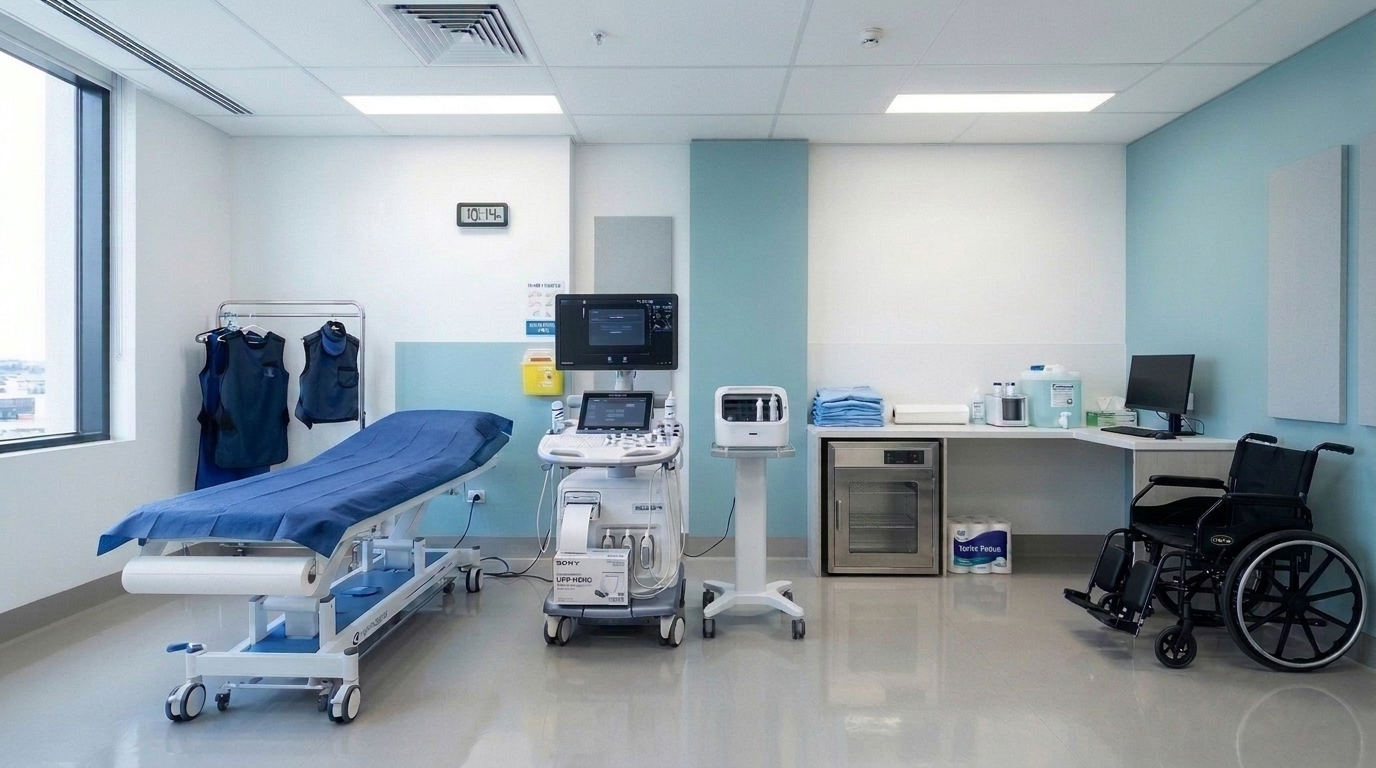
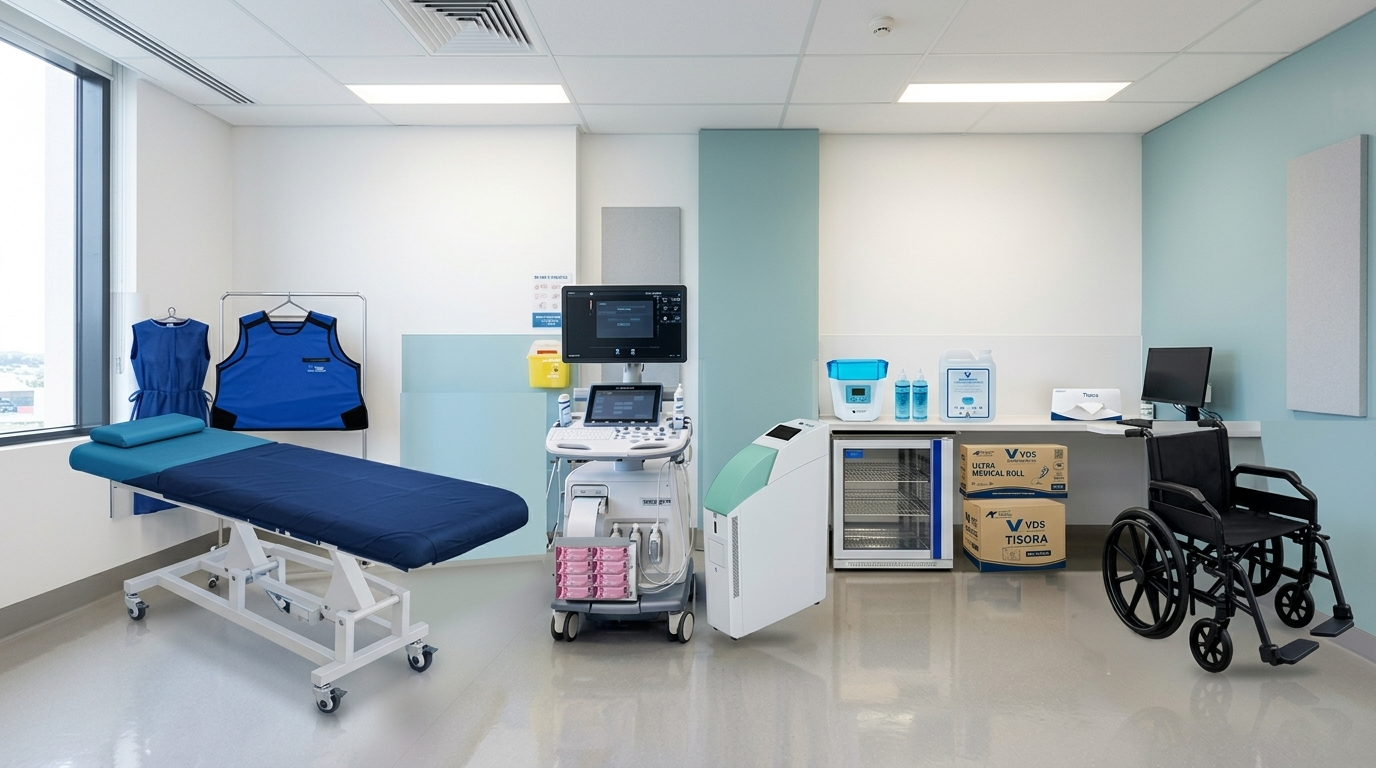
chnage the acc number and bsb

diff --git a/frontend/src/components/InteractiveRoom/InteractiveRoom.jsx b/frontend/src/components/InteractiveRoom/InteractiveRoom.jsx
@@ -23,8 +23,8 @@ const ROOM_HOTSPOTS = [
     artg: 'ARTG 203847',
     tagline: 'Versatile electric 2-motor positioning for clinics & ultrasound suites',
     image: '/images/exam_couch.webp',
-    x: 26,
-    y: 78,
+    x: 20.0,
+    y: 76.5,
     tooltipPlacement: 'top'
   },
   {
@@ -38,8 +38,8 @@ const ROOM_HOTSPOTS = [
     artg: 'ARTG 102934',
     tagline: '240 × 70 cm · Non-woven fluid-resistant barrier for examination couches',
     image: '/images/exam_bed_sheet_10.webp',
-    x: 23,
-    y: 64,
+    x: 27.5,
+    y: 62.5,
     tooltipPlacement: 'top'
   },
   {
@@ -51,10 +51,10 @@ const ROOM_HOTSPOTS = [
     sku: 'EX-ROLL-01',
     price: '$58.20 / Carton',
     artg: null,
-    tagline: 'Continuous couch roll dispenser protection with easy-tear perforations',
+    tagline: 'Carton of 20 continuous couch roll dispensers with easy-tear perforations',
     image: '/images/ultra_medical_roll.webp',
-    x: 66.8,
-    y: 55.3,
+    x: 72.5,
+    y: 61.2,
     tooltipPlacement: 'top'
   },
   {
@@ -68,8 +68,8 @@ const ROOM_HOTSPOTS = [
     artg: 'ARTG 401823',
     tagline: '0.50mm Pb radiation protection for imaging staff & radiologists',
     image: '/images/x_ray_protective_apron.webp',
-    x: 20.5,
-    y: 48,
+    x: 21.0,
+    y: 48.5,
     tooltipPlacement: 'top'
   },
   {
@@ -81,10 +81,10 @@ const ROOM_HOTSPOTS = [
     sku: 'EX-GOWN-REG',
     price: '$76.00 / Box of 100',
     artg: 'ARTG 394857',
-    tagline: 'Single-use breathable non-woven patient gowns on examination table',
+    tagline: 'Single-use breathable non-woven patient gowns on clinical hanger rack',
     image: '/images/patient_examination_gown.webp',
-    x: 61.2,
-    y: 53.5,
+    x: 12.5,
+    y: 48.5,
     tooltipPlacement: 'top'
   },
   {
@@ -98,8 +98,8 @@ const ROOM_HOTSPOTS = [
     artg: 'ARTG 530981',
     tagline: 'VDS is direct ARTG sponsor · Acoustically correct clear transmission formula',
     image: '/images/ultrasound_gel_250ML.webp',
-    x: 40.3,
-    y: 55.3,
+    x: 66.0,
+    y: 51.5,
     tooltipPlacement: 'top'
   },
   {
@@ -113,8 +113,8 @@ const ROOM_HOTSPOTS = [
     artg: 'ARTG 530981',
     tagline: 'Bulk supply cubitainer with free 250ml dispensing bottle included',
     image: '/images/ultrasound_gel_5L.webp',
-    x: 77.0,
-    y: 53.0,
+    x: 70.0,
+    y: 50.5,
     tooltipPlacement: 'top'
   },
   {
@@ -128,8 +128,8 @@ const ROOM_HOTSPOTS = [
     artg: 'ARTG 495823',
     tagline: 'Rapid microprocessor-controlled heating for optimal patient comfort',
     image: '/images/thermasonic_gel_warmer.webp',
-    x: 72.7,
-    y: 53.5,
+    x: 62.2,
+    y: 50.5,
     tooltipPlacement: 'top'
   },
   {
@@ -143,8 +143,8 @@ const ROOM_HOTSPOTS = [
     artg: 'ARTG 412890',
     tagline: 'Stainless steel heated cabinet for blankets, fluids, and clinical linens',
     image: '/images/medical_warming_cabinet.webp',
-    x: 63.5,
-    y: 68.0,
+    x: 64.7,
+    y: 65.5,
     tooltipPlacement: 'top'
   },
   {
@@ -158,8 +158,8 @@ const ROOM_HOTSPOTS = [
     artg: 'ARTG 582910',
     tagline: 'High-level disinfection in under 60 seconds with no harmful chemicals',
     image: '/images/ultrasound_probe_disinfector.webp',
-    x: 54.7,
-    y: 54.5,
+    x: 55.6,
+    y: 67.5,
     tooltipPlacement: 'top'
   },
   {
@@ -173,8 +173,8 @@ const ROOM_HOTSPOTS = [
     artg: null,
     tagline: 'Ultra-soft 2-ply clinical tissues for ultrasound gel clean-up',
     image: '/images/tisora_facial_tissue.webp',
-    x: 80.5,
-    y: 54.0,
+    x: 78.8,
+    y: 52.5,
     tooltipPlacement: 'top'
   },
   {
@@ -188,8 +188,8 @@ const ROOM_HOTSPOTS = [
     artg: 'ARTG 318290',
     tagline: 'High-gloss A6 black & white thermal print media for ultrasound diagnostics',
     image: '/images/sony_upp_110hg_print_media.webp',
-    x: 43.5,
-    y: 74.5,
+    x: 43.0,
+    y: 74.8,
     tooltipPlacement: 'top'
   },
   {
@@ -203,8 +203,8 @@ const ROOM_HOTSPOTS = [
     artg: 'ARTG 298412',
     tagline: '100% non-magnetic polymer construction tested for up to 3.0 Tesla MRI zones',
     image: '/images/non_metal_wheelchair.webp',
-    x: 88.0,
-    y: 70.3,
+    x: 87.5,
+    y: 69.5,
     tooltipPlacement: 'top'
   },
   {
@@ -218,8 +218,8 @@ const ROOM_HOTSPOTS = [
     artg: null,
     tagline: 'Hospital & clinic facility grade 2-ply soft embossed rolls',
     image: '/images/tisora_toilet_tissue_paper.webp',
-    x: 70.8,
-    y: 71.0,
+    x: 73.5,
+    y: 69.5,
     tooltipPlacement: 'top'
   }
 ];

diff --git a/frontend/src/pages/Home/Home.jsx b/frontend/src/pages/Home/Home.jsx
@@ -6,8 +6,8 @@ import ProductCard from '../../components/ProductCard/ProductCard';
 import InteractiveRoom from '../../components/InteractiveRoom/InteractiveRoom';
 import { fetchFeaturedProducts, fetchProducts } from '../../data/products';
 import './Home.css';
-import { INDS } from '../../data/industries';
 
+import { INDS } from '../../data/industries';
 const ART = {
   gel: '<path d="M44 46h32v52a6 6 0 0 1-6 6H50a6 6 0 0 1-6-6z"/><path d="M48 46l3-8h18l3 8"/><path d="M55 38l2-12h6l2 12"/><circle class="accf" cx="60" cy="18" r="3.2"/><path class="dim" d="M32 46v58M29 46h6M29 104h6"/><path class="acc" d="M48 70h24"/>',
   apron: '<path d="M40 32q20 8 40 0l6 14-4 56q-22 6-44 0l-4-56z"/><path d="M48 32q12-14 24 0"/><path class="acc" d="M37 66h46"/><path class="dim" d="M94 46v56M91 46h6M91 102h6"/>',

diff --git a/frontend/src/components/ClientPaymentModal/ClientPaymentModal.jsx b/frontend/src/components/ClientPaymentModal/ClientPaymentModal.jsx
@@ -312,11 +312,11 @@ export default function ClientPaymentModal({
                 <div className="cpm-bank-row">
                   <span>Account Number:</span>
                   <div className="cpm-copyable-val">
-                    <span>8492 1045</span>
+                    <span>78-740-2934</span>
                     <button
                       type="button"
                       className="cpm-copy-icon-btn"
-                      onClick={() => copyToClipboard('84921045', 'acc')}
+                      onClick={() => copyToClipboard('78-740-2934', 'acc')}
                       title="Copy Account Number"
                     >
                       {copiedField === 'acc' ? <Check size={14} color="#4ade80" /> : <Copy size={14} />}

diff --git a/frontend/src/components/PrintInvoiceModal/PrintInvoiceModal.jsx b/frontend/src/components/PrintInvoiceModal/PrintInvoiceModal.jsx
@@ -448,7 +448,7 @@ export default function PrintInvoiceModal({ order, onClose }) {
                 <div><strong>Bank:</strong> National Australia Bank (NAB)</div>
                 <div><strong>Account Name:</strong> Victoria Diagnostic Supplies Pty Ltd</div>
                 <div><strong>BSB:</strong> 083-004</div>
-                <div><strong>Account Number:</strong> 8492 1045</div>
+                <div><strong>Account Number:</strong> 78-740-2934</div>
                 <div className="eft-ref"><strong>Payment Reference:</strong> <span>{invoiceNum}</span></div>
               </div>
               <p className="remittance-note">
